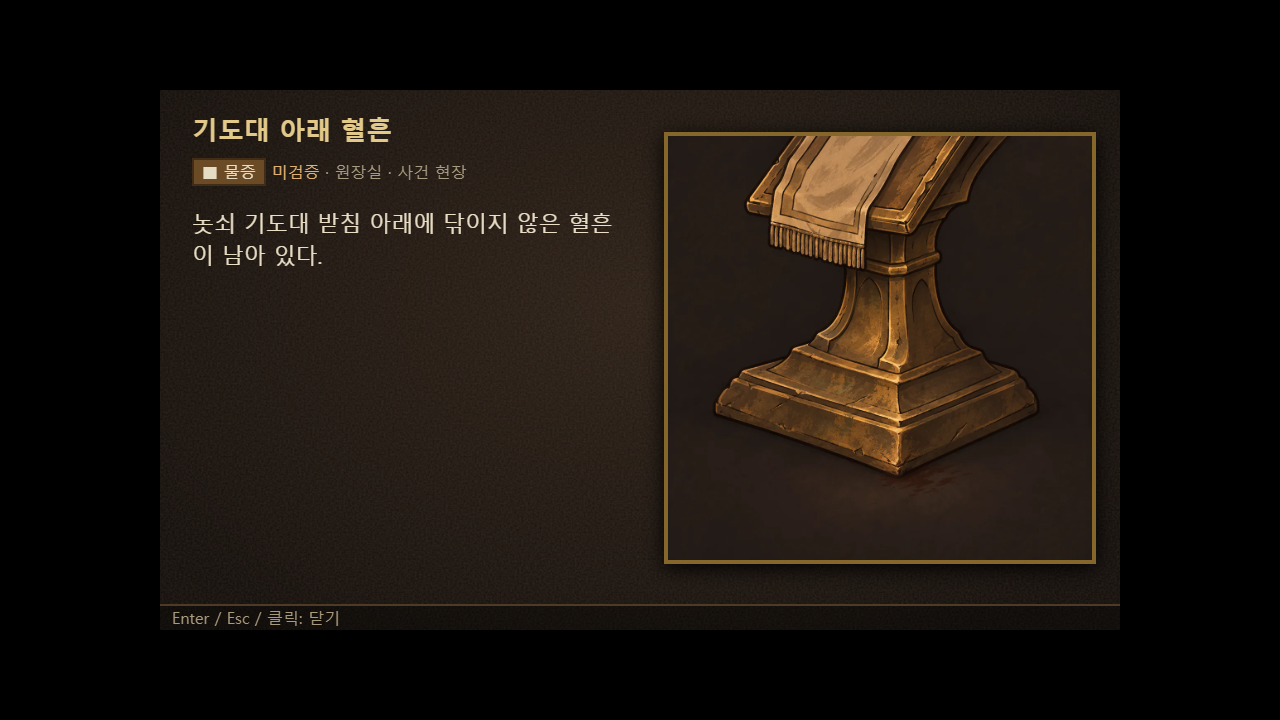
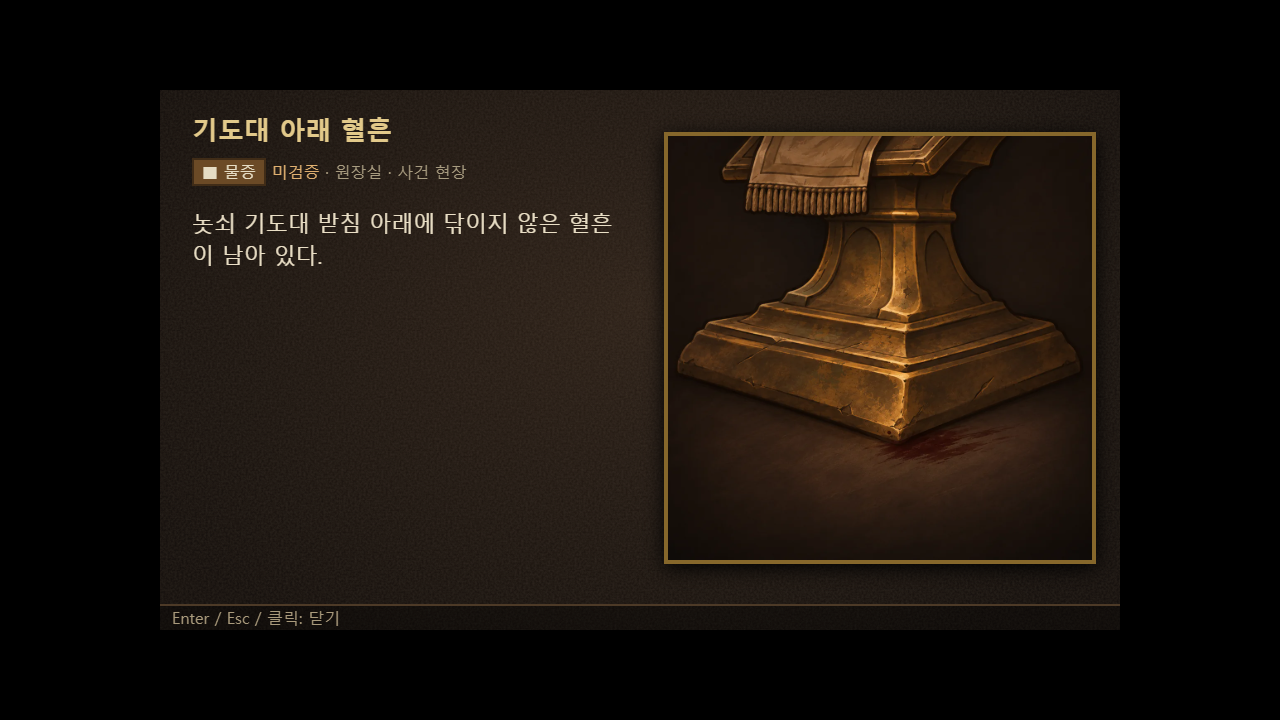
백선우 걷기·혈흔 v2 적용
걷기 공통 순서 walk_pass, 발 하단 줄 정렬(alignFeet), _v2 최신판 인식(frameSrc)

Changed region(s): [[0.5312, 0.1833, 0.8438, 0.6722]]

diff --git a/tests/followup2.test.ts b/tests/followup2.test.ts
@@ -14,8 +14,8 @@ type Seq = { id: string; frames: string[]; walkCycle?: string[] };
 const seqs = spec.sequences as unknown as Seq[];
 
 describe('걷기 5프레임·1/3 속도 (asset-spec 데이터)', () => {
-  it('공통 규칙: 걷기 2장 → 서 있는 프레임 → 걷기 2장, 5fps(한 주기 1.0초)', () => {
-    expect(spec.walk.cycle).toEqual(['walk_0', 'walk_1', 'idle_0', 'walk_2', 'walk_3']);
+  it('공통 규칙: 걷기 2장 → 지나가는 프레임(walk_pass) → 걷기 2장, 5fps(한 주기 1.0초)', () => {
+    expect(spec.walk.cycle).toEqual(['walk_0', 'walk_1', 'walk_pass', 'walk_2', 'walk_3']);
     expect(spec.walk.fps).toBe(5); expect(spec.walk.cycle.length / spec.walk.fps).toBe(1);
   });
   it('발이 미끄러지지 않는다: 한 주기에 가는 거리 = 이동 속도 × 주기 시간 = 실제 보폭(60~70px), 달리기는 속도·fps 가 같은 배수', () => {
@@ -26,27 +26,42 @@ describe('걷기 5프레임·1/3 속도 (asset-spec 데이터)', () => {
   it('연출 속 이동(오프닝 박은호·1층 첫 입장 플레이어·백선우)도 같은 속도 규칙: 단계에 speed 를 따로 쓰지 않는다', () => {
     for (const st of [...map.opening.steps, ...(map.areas.floor1.stage?.steps ?? [])]) if (st.do === 'walk') expect(st, JSON.stringify(st)).not.toHaveProperty('speed');
   });
-  it('모든 걷는 인물의 순서는 걷기·걷기·idle_0·걷기·걷기이고 그림이 실제로 있다 (박은호는 보폭이 큰 4장)', () => {
+  it('모든 걷는 인물의 순서는 걷기·걷기·가운데·걷기·걷기이고 그림이 실제로 있다 (가운데: 백선우 walk_pass, 한지수·박은호는 _v2 가 올 때까지 idle_0)', () => {
     for (const q of seqs.filter((x) => x.frames.some((f) => f.startsWith('walk_')))) {
       const cycle = q.walkCycle ?? spec.walk.cycle;
-      expect(cycle, q.id).toHaveLength(5); expect(cycle[2], q.id).toBe('idle_0');
+      expect(cycle, q.id).toHaveLength(5); expect(['idle_0', 'walk_pass'], q.id).toContain(cycle[2]);
       for (const [i, f] of cycle.entries()) { expect(q.frames, `${q.id}:${f}`).toContain(f); if (i !== 2) expect(f).toMatch(/^walk_\d$/); }
-      expect(new Set(cycle.filter((f) => f !== 'idle_0')).size, q.id).toBe(4);
+      expect(new Set(cycle.filter((_, i) => i !== 2)).size, q.id).toBe(4);
     }
     expect(seqs.find((q) => q.id === 'eunho')!.walkCycle).toEqual(['walk_0', 'walk_1', 'idle_0', 'walk_3', 'walk_4']);
-    expect(seqs.find((q) => q.id === 'player')!.walkCycle).toBeUndefined(); // 한지수: walk_0, walk_1, idle_0, walk_2, walk_3
+    expect(seqs.find((q) => q.id === 'player')!.walkCycle).toEqual(['walk_0', 'walk_1', 'idle_0', 'walk_2', 'walk_3']);
+    expect(seqs.find((q) => q.id === 'baek')!.walkCycle).toBeUndefined(); // 공통 순서: walk_0, walk_1, walk_pass, walk_2, walk_3
   });
-  it('백선우 걷기 그림은 pending 이고, 들어오면 같은 규칙이 자동 적용된다', () => {
-    for (const n of [0, 1, 2, 3]) expect(spec.pending).toContain(`baek_walk_${n}`);
-    const sp = { sequences: [{ id: 'baek', frames: ['idle_0'], breathe: true }] } as unknown as Parameters<typeof mergeWalkFrames>[0];
-    const manifest: ManifestEntry[] = [0, 1, 2, 3].map((n) => ({ file: `characters/baek/walk_${n}.png`, kind: 'sprite', facing: 'right', chromaKey: true }));
+  it('백선우 걷기 5장이 들어왔다(pending 없음), 정규화는 발 하단 줄 정렬', () => {
+    expect(spec.pending).toEqual([]);
+    const b = seqs.find((q) => q.id === 'baek') as Seq & { alignFeet?: boolean };
+    expect(b.frames).toEqual(expect.arrayContaining(['idle_0', 'walk_0', 'walk_1', 'walk_2', 'walk_3', 'walk_pass'])); expect(b.alignFeet).toBe(true);
+  });
+  it('걷기 그림이 들어오면 frames 에 더하고 같은 규칙이 자동 적용된다 (walk_pass 포함, 두 번 해도 그대로)', () => {
+    const sp = { sequences: [{ id: 'baek', src: 'generated/characters/baek', frames: ['idle_0'], breathe: true }] } as unknown as Parameters<typeof mergeWalkFrames>[0];
+    const manifest: ManifestEntry[] = ['walk_0', 'walk_1', 'walk_pass', 'walk_2', 'walk_3'].map((n) => ({ file: `characters/baek/${n}.png`, kind: 'sprite', facing: 'right', chromaKey: true }));
     const added = mergeWalkFrames(sp, manifest);
-    expect(added).toEqual(['baek_walk_0', 'baek_walk_1', 'baek_walk_2', 'baek_walk_3']);
-    expect((sp.sequences[0] as unknown as Seq).frames).toEqual(['idle_0', 'walk_0', 'walk_1', 'walk_2', 'walk_3']);
-    const pend = { pending: ['floor_plan_board', ...added] };
+    expect(added).toEqual(['baek_walk_0', 'baek_walk_1', 'baek_walk_2', 'baek_walk_3', 'baek_walk_pass']);
+    expect(mergeWalkFrames(sp, manifest)).toEqual([]);
+    const pend = { pending: ['x', ...added] };
     clearPending(pend, [], manifest, added);
-    expect(pend.pending).toEqual(['floor_plan_board']);
-    expect(mergeWalkFrames(sp, manifest)).toEqual([]); // 두 번 적용해도 그대로
+    expect(pend.pending).toEqual(['x']);
+  });
+  it('_v2 파일은 같은 이름(walk_0)의 최신판으로 인식한다: craft_on 인물은 _v2 만 바꿔 넣고(v1 파일은 무시), 5장이 모두 최신판이면 walkCycle 을 지운다', () => {
+    const sp = { sequences: [{ id: 'player', src: 'Art/Player', frames: ['idle_0', 'idle_1', 'walk_0', 'walk_1', 'walk_2', 'walk_3'], walkCycle: ['walk_0', 'walk_1', 'idle_0', 'walk_2', 'walk_3'] }] } as unknown as Parameters<typeof mergeWalkFrames>[0];
+    const v1: ManifestEntry[] = ['walk_0', 'walk_1', 'walk_2', 'walk_3', 'walk_pass'].map((n) => ({ file: `characters/player/${n}.png`, kind: 'sprite' }));
+    expect(mergeWalkFrames(sp, v1)).toEqual([]); // v2 가 오기 전에는 지금 그림 유지
+    expect(sp.sequences[0]).not.toHaveProperty('frameSrc'); expect(sp.sequences[0]).toHaveProperty('walkCycle');
+    const v2: ManifestEntry[] = ['walk_0', 'walk_1', 'walk_2', 'walk_3', 'walk_pass'].map((n) => ({ file: `characters/player/${n}_v2.png`, kind: 'sprite' }));
+    expect(mergeWalkFrames(sp, [...v1, ...v2])).toEqual(['player_walk_pass']);
+    const q = sp.sequences[0] as unknown as Seq & { frameSrc: Record<string, string>; alignFeet: boolean };
+    expect(q.frameSrc.walk_0).toBe('generated/characters/player/walk_0_v2'); expect(q.frameSrc.walk_pass).toBe('generated/characters/player/walk_pass_v2');
+    expect(q).not.toHaveProperty('walkCycle'); expect(q.alignFeet).toBe(true);
   });
 });
 

diff --git a/tools/normalize-assets.ts b/tools/normalize-assets.ts
@@ -55,15 +55,26 @@ const outlined = spec.sprites.filter((s: any) => s.outline);
 let outlineRgb: [number, number, number] | null = null;
 const outlineColor = async () => (outlineRgb ??= await measureOutlineColor(readFile(join(OUT, 'player_idle_0.png'))));
 
+/** 그림에서 맨 아래 불투명 줄(발바닥)을 찾아 그 줄이 캔버스 맨 아래가 되도록 세로로만 옮긴다. 크기는 바꾸지 않는다 (머리가 내려가는 프레임도 같은 키). */
+async function alignFeet(buf: Buffer, w: number, h: number): Promise<Buffer> {
+  const { data } = await sharp(buf).ensureAlpha().raw().toBuffer({ resolveWithObject: true });
+  let bottom = -1;
+  for (let y = h - 1; y >= 0 && bottom < 0; y--) for (let x = 0; x < w; x++) if (data[(y * w + x) * 4 + 3] > 0) { bottom = y; break; }
+  const dy = bottom < 0 ? 0 : h - 1 - bottom;
+  if (dy === 0) return buf;
+  return sharp({ create: { width: w, height: h, channels: 4, background: { r: 0, g: 0, b: 0, alpha: 0 } } }).composite([{ input: await sharp(buf).extract({ left: 0, top: 0, width: w, height: h - dy }).png().toBuffer(), left: 0, top: dy }]).png().toBuffer();
+}
+
 // 시퀀스: 같은 캐릭터의 모든 프레임을 가로로 이어 붙여 한 번에 양자화 → 프레임별로 다시 자름 (프레임 간 팔레트 동일)
 for (const q of spec.sequences) {
   const frames = await Promise.all(q.frames.map(async (f: string) => {
-    const src = await load(join(SRC, q.src, `${f}.png`), q.chromaKey);
+    const src = await load(join(SRC, `${q.frameSrc?.[f] ?? `${q.src}/${f}`}.png`), q.chromaKey); // frameSrc: 같은 이름 그림의 최신판(_v2 …) 경로
     const meta = await sharp(src).metadata();
     const w = Math.round((meta.width! * q.canvasHeight) / meta.height!);
     const h = q.outline ? q.canvasHeight - 1 : q.canvasHeight; // 외곽선용 위 여백 1px 을 빼고 만든다 (캔버스 높이 90 유지)
     const resized = await sharp(src).resize(w, h, { kernel: 'lanczos3' }).png().toBuffer();
-    const keyed = q.chromaKey ? await binarizeAlpha(resized) : resized;
+    let keyed = q.chromaKey ? await binarizeAlpha(resized) : resized;
+    if (q.alignFeet) keyed = await alignFeet(keyed, w, h); // 걷기 프레임: 같은 배율 그대로, 발 하단 줄을 캔버스 바닥선에 맞춘다
     if (!q.outline) return { f, w, buf: keyed };
     return { f, w: w + 2, buf: await applyOutline(await padForOutline(keyed), await outlineColor()) }; // 좌우 여백 1px 씩 // 외곽선 보정은 숨쉬기 프레임을 만들기 전에 적용한다
   }));
@@ -102,7 +113,7 @@ async function emitIllust(file: string, name: string, portrait: boolean) {
 for (const p of spec.illust as string[]) {
   if (p.endsWith('/*.png')) {
     const dir = p.slice(0, -6);
-    for (const f of readdirSync(join(SRC, dir))) if (!isPendingPortrait(f)) await emitIllust(join(SRC, dir, f), f, /portraits/i.test(dir)); // 승인 전(pending) 인물의 초상은 넣지 않는다
+    for (const f of readdirSync(join(SRC, dir))) if (!isPendingPortrait(f) && !(spec.illustExclude ?? []).includes(f)) await emitIllust(join(SRC, dir, f), f, /portraits/i.test(dir)); // 승인 전(pending) 인물의 초상은 넣지 않는다
   } else await emitIllust(join(SRC, p), basename(p), false);
 }
 // 근접 조사 소품: 투명 여백을 뺀 실제 그림 영역(bbox)과 클릭 판정용 마스크(40열)를 src/data/illust-masks.json 에 쓴다 (file:// 에서는 캔버스로 읽을 수 없다)

diff --git a/tools/walk-gifs.ts b/tools/walk-gifs.ts
@@ -9,7 +9,7 @@ const spec = JSON.parse(readFileSync('art/asset-spec.json', 'utf8')) as { walk: 
 const ff = findFfmpeg();
 if (!ff) throw new Error('ffmpeg 가 없다');
 const RUN = (JSON.parse(readFileSync('src/data/map.json', 'utf8')) as { runMultiplier: number }).runMultiplier;
-for (const [id, mode] of [['player', 'walk'], ['player', 'run'], ['eunho', 'walk']] as const) { // 달리기는 이동 속도와 같은 배수로 fps 를 올린다
+for (const [id, mode] of [['player', 'walk'], ['player', 'run'], ['eunho', 'walk'], ['baek', 'walk']] as const) { // 달리기는 이동 속도와 같은 배수로 fps 를 올린다
   const q = spec.sequences.find((x) => x.id === id)!, cycle = q.walkCycle ?? spec.walk.cycle, fps = (q.walkFps ?? spec.walk.fps) * (mode === 'run' ? RUN : 1);
   const dir = `.tmp/gif_${mode}_${id}`; rmSync(dir, { recursive: true, force: true }); mkdirSync(dir, { recursive: true });
   const S = 4, W = 70 * S, H = 94 * S;
@@ -21,4 +21,21 @@ for (const [id, mode] of [['player', 'walk'], ['player', 'run'], ['eunho', 'walk
   const r = spawnSync(ff, ['-y', '-loglevel', 'error', '-framerate', String(fps), '-i', `${dir}/%d.png`, '-vf', 'split[a][b];[a]palettegen[p];[b][p]paletteuse', '-loop', '0', out]);
   if (r.status !== 0) throw new Error(String(r.stderr));
   console.log(`${out}: ${cycle.join(' → ')} @ ${fps}fps (한 주기 ${(cycle.length / fps).toFixed(2)}초)`);
+}
+
+// 대기 → 걷기 → 대기 전환 (몸 크기·발 높이가 바뀌지 않는지 확인): 바닥선(분홍 줄)과 머리 높이 줄(청록)을 함께 그린다 → docs/screenshots/walk_transition_baek.gif
+{
+  const id = 'baek', q = spec.sequences.find((x) => x.id === id)!, cycle = q.walkCycle ?? spec.walk.cycle, fps = spec.walk.fps;
+  const seq = ['idle_0', 'idle_0', 'idle_0', ...cycle, ...cycle, 'idle_0', 'idle_0', 'idle_0'];
+  const dir = '.tmp/gif_transition_baek'; rmSync(dir, { recursive: true, force: true }); mkdirSync(dir, { recursive: true });
+  const S = 4, W = 70 * S, H = 94 * S, groundY = H - 2 * S;
+  for (const [i, f] of seq.entries()) {
+    const img = await sharp(`public/assets/${id}_${f}.png`).resize({ height: 90 * S, kernel: 'nearest' }).png().toBuffer(), m = await sharp(img).metadata();
+    const lines = `<svg xmlns="http://www.w3.org/2000/svg" width="${W}" height="${H}"><rect x="0" y="${groundY}" width="${W}" height="1" fill="#ff5fa0"/><rect x="0" y="${groundY - 86 * S}" width="${W}" height="1" fill="#40e0d0"/></svg>`;
+    await sharp({ create: { width: W, height: H, channels: 3, background: '#3a4a50' } }).composite([{ input: img, left: Math.round((W - m.width!) / 2), top: H - m.height! - 2 * S }, { input: Buffer.from(lines), left: 0, top: 0 }]).png().toFile(`${dir}/${i}.png`);
+  }
+  const out = 'docs/screenshots/walk_transition_baek.gif';
+  const r = spawnSync(ff, ['-y', '-loglevel', 'error', '-framerate', String(fps), '-i', `${dir}/%d.png`, '-vf', 'split[a][b];[a]palettegen[p];[b][p]paletteuse', '-loop', '0', out]);
+  if (r.status !== 0) throw new Error(String(r.stderr));
+  console.log(`${out}: idle ×3 → ${cycle.join(' → ')} ×2 → idle ×3 @ ${fps}fps`);
 }

diff --git a/tools/import-generated.ts b/tools/import-generated.ts
@@ -48,15 +48,36 @@ export function draftFromManifest(manifest: ManifestEntry[], spec: Pick<Spec, 's
   return draft;
 }
 
+/** 걷기 그림 파일 이름: walk_0~3, walk_pass, 다시 만든 판은 `_v2` 같은 꼬리표가 붙는다 (walk_0_v2). 같은 이름(walk_0)의 최신판이 쓰인다. */
+const WALK_FILE = /^(walk_(?:\d+|pass))(?:_v(\d+))?$/;
+const WALK_NEEDED = ['walk_0', 'walk_1', 'walk_2', 'walk_3', 'walk_pass'];
+
 /**
- * 이미 있는 인물(sequence)에 걷기 그림(walk_N)이 새로 들어왔으면 frames 에 더한다 (idle_0 숨쉬기 생성은 그대로).
- * 걷기 순서·속도는 asset-spec 의 walk 규칙(걷기 2장 → idle_0 → 걷기 2장, 공통 fps)이 자동으로 적용한다. 더한 텍스처 이름(`baek_walk_0` …)을 돌려준다.
+ * 이미 있는 인물(sequence)에 걷기 그림이 들어왔으면 frames 에 더하고, 걷기 그림이 같은 이름의 최신판(_v2 …)이면 frameSrc 로 그 파일을 가리킨다.
+ *  - 생성 그림 폴더(generated/…)를 쓰는 인물(백선우)은 `walk_N.png` 도 그대로 쓴다.
+ *  - craft_on 그림을 쓰는 인물(한지수·박은호)은 `_v2` 이상 파일만 바꿔 넣는다 (v1 파일이 폴더에 있어도 지금 그림을 유지한다).
+ *  - 새로 들어온 걷기 그림이 있으면 발 하단 줄 정렬(alignFeet)을 켠다. 걷기 5장(walk_0~3, walk_pass)이 모두 최신판이면 인물별 walkCycle 은 지운다(공통 순서 사용).
+ * 같은 규칙을 걷기 순서·속도는 asset-spec 의 walk 가 자동으로 적용한다. 더한 텍스처 이름(`baek_walk_0` …)을 돌려준다.
  */
 export function mergeWalkFrames(spec: Pick<Spec, 'sequences'>, manifest: ManifestEntry[]): string[] {
   const added: string[] = [];
   for (const q of spec.sequences) {
-    const walks = manifest.filter((e) => e.kind === 'sprite' && e.file.startsWith(`characters/${q.id}/`)).map((e) => basename(e.file, '.png')).filter((f) => /^walk_\d+$/.test(f)).sort();
-    for (const f of walks) if (!q.frames.includes(f)) { q.frames.push(f); added.push(`${q.id}_${f}`); }
+    const generatedSrc = String(q.src ?? '').startsWith('generated/');
+    const best = new Map<string, { version: number; file: string }>(); // 걷기 이름 → 최신판 파일
+    for (const e of manifest.filter((x) => x.kind === 'sprite' && x.file.startsWith(`characters/${q.id}/`))) {
+      const m = WALK_FILE.exec(basename(e.file, '.png'));
+      if (!m) continue;
+      const version = m[2] ? Number(m[2]) : 1;
+      if (!generatedSrc && version < 2) continue;
+      if (!best.has(m[1]) || best.get(m[1])!.version < version) best.set(m[1], { version, file: e.file.replace(/\.png$/, '') });
+    }
+    for (const f of [...best.keys()].sort()) {
+      const b = best.get(f)!;
+      if (!q.frames.includes(f)) { q.frames.push(f); added.push(`${q.id}_${f}`); }
+      if (b.version >= 2) q.frameSrc = { ...(q.frameSrc ?? {}), [f]: `generated/${b.file}` };
+      q.alignFeet = true;
+    }
+    if (WALK_NEEDED.every((f) => q.frameSrc?.[f] || (generatedSrc && q.frames.includes(f)))) delete q.walkCycle;
   }
   return added;
 }

diff --git a/tests/batch6.test.ts b/tests/batch6.test.ts
@@ -8,11 +8,11 @@ import map from '../src/data/map.json';
 import illustList from '../src/data/illust-list.json';
 
 describe('배치 6 적용', () => {
-  it('pending 은 백선우 걷기(배치 7 대기)만 남는다', () => {
-    expect(spec.pending).toEqual(['baek_walk_0', 'baek_walk_1', 'baek_walk_2', 'baek_walk_3']);
+  it('pending 은 비었다', () => {
+    expect(spec.pending).toEqual([]); // 배치 7 일부(백선우 걷기)가 들어와 비었다
   });
   it('증거 근접 그림 5장이 해당 단서의 상세 보기에 연결된다', () => {
-    const want: Record<string, string> = { E02_altar_blood: 'ev_altar_blood', E04_wristband_fragment: 'ev_wristband', E06_torn_sleeve: 'ev_torn_sleeve', E09_sedative_gap: 'ev_syringe_bag', E14_belongings_diary: 'ev_belongings' };
+    const want: Record<string, string> = { E02_altar_blood: 'ev_altar_blood_v2', E04_wristband_fragment: 'ev_wristband', E06_torn_sleeve: 'ev_torn_sleeve', E09_sedative_gap: 'ev_syringe_bag', E14_belongings_diary: 'ev_belongings' };
     for (const [id, img] of Object.entries(want)) {
       expect((evidence as { id: string; illust?: string }[]).find((e) => e.id === id)!.illust).toBe(img);
       expect(illustList).toContain(img);

diff --git a/docs/이전계획.md b/docs/이전계획.md
@@ -401,3 +401,9 @@ ConfessionWard_v1.0_web/
 - 엔딩 카드: 그림 전체 + 위 띠(제목·카드 문장) + 아래 좌우 두 칸(결과 세 줄), 가운데는 비워 인물이 가려지지 않는다. 타이틀: 메뉴·제목을 왼쪽 어두운 띠로 옮겨 건물 창문과 탐정을 가리지 않는다(조작법 패널은 오른쪽).
 - 평면도는 높이 40(order_emblem 32 근처, 눈높이 바닥 위 60px). 닫힌 철창문은 `fitTo: stairs_basement` 로 바깥 문틀 상자를 열린 그림과 같은 가로·세로(73×90)로 맞춘다(원본 비율이 1%쯤 달라 약간 늘린다). 정렬 확인: `docs/screenshots/gate_align.png`.
 - 시험·확인용 변경: 이미지 로딩 중 닫힘(ABORTED)은 오류로 세지 않는다(webp), 확인 스크린샷 `tools/batch6-shots.ts`.
+
+### 11.8 배치 7 일부 적용 (백선우 걷기 · 혈흔 v2)와 걷기 정규화 규칙
+- 걷기 공통 순서는 `walk_0 → walk_1 → walk_pass → walk_2 → walk_3`(5fps). 한지수·박은호는 `_v2` 가 올 때까지 지금 그림을 유지하므로 인물별 `walkCycle`(가운데 idle_0)을 둔다. 5장(walk_0~3, walk_pass)이 모두 `_v2` 로 들어오면 `import-generated` 가 그 인물의 `walkCycle` 을 지워 공통 순서가 쓰인다.
+- 정규화(`alignFeet: true` 인 시퀀스): 모든 프레임이 같은 배율(캔버스 전체 기준)이라 머리가 내려가는 프레임(walk_1·walk_3)도 몸 크기가 같다. 프레임마다 맨 아래 불투명 줄(발바닥)을 재서 캔버스 바닥선에 맞춘다(세로 이동만). 백선우: 대기·걷기 모두 발 하단 y=89, 몸 높이 84~88px(걸을 때 머리가 4px 내려간다).
+- `_v2` 인식: manifest 의 `walk_0_v2.png` 는 같은 이름 `walk_0` 의 최신판이다(`frameSrc`). 생성 폴더를 쓰는 인물은 v1 도 쓰고, craft_on 그림을 쓰는 인물은 v2 이상만 바꿔 넣는다. 새로 들어온 인물은 `alignFeet` 가 켜진다.
+- E02 상세 그림은 `ev_altar_blood_v2`(옛 `ev_altar_blood.png` 는 `illustExclude` 로 빼 용량을 늘리지 않는다).
